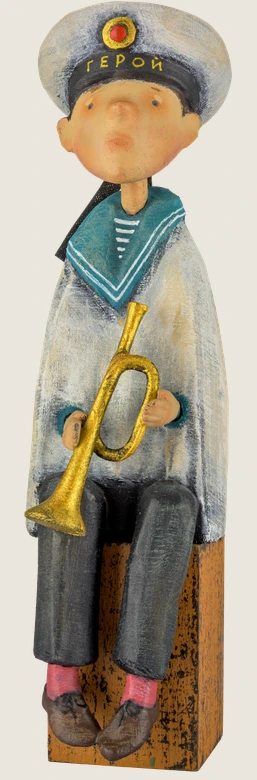
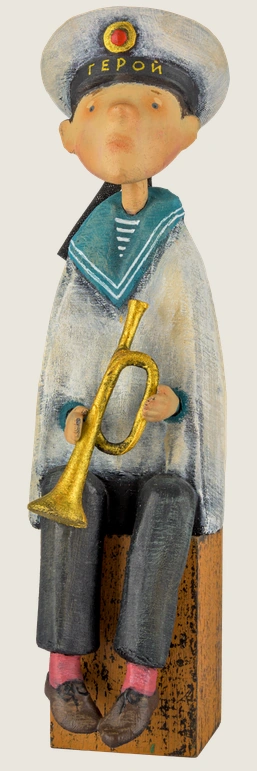
Correct Sailor homepage master to measured 680px body without CSS scaling

diff --git a/index.html b/index.html
@@ -430,7 +430,7 @@ body,.collection-section,.buyers-note,.footer{background:var(--paper)}
         <div class="section-heading collection-heading"><h2>Герои коллекции</h2></div>
         <div class="collection-grid">
           <a class="collection-slot collection-slot-live" data-figurine="piero" href="piero.html"><div class="collection-slot-image"><img src="assets/piero/studio-home-680.webp?v=2" alt="Пьеро" loading="lazy"></div><span class="collection-slot-name">Пьеро</span></a>
-          <a class="collection-slot collection-slot-live" data-figurine="moryak" href="moryak.html"><div class="collection-slot-image"><img src="assets/moryak/studio-home.webp?v=20261024-1" alt="Моряк" loading="lazy"></div><span class="collection-slot-name">Моряк</span></a>
+          <a class="collection-slot collection-slot-live" data-figurine="moryak" href="moryak.html"><div class="collection-slot-image"><img src="assets/moryak/studio-home.webp?v=20261024-680-1" alt="Моряк" loading="lazy"></div><span class="collection-slot-name">Моряк</span></a>
         </div>
       </div>
     </section>
